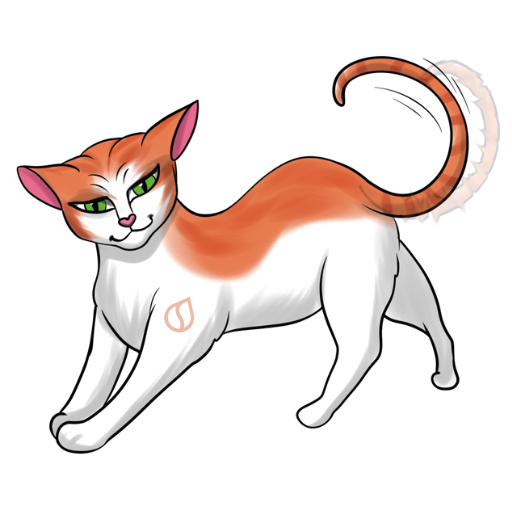
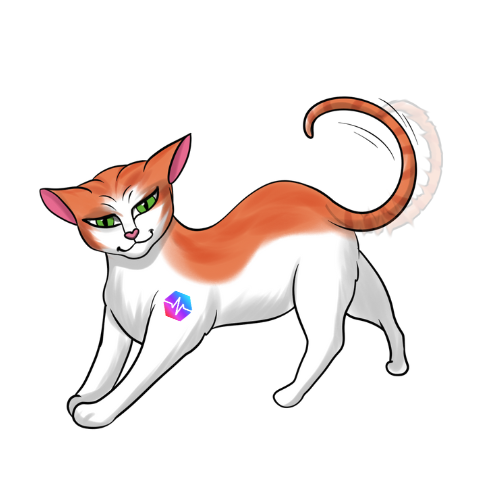
fix

diff --git a/index.html b/index.html
@@ -2,7 +2,7 @@
 <html lang="en">
 
 <head>
-	<title>$LOLA ON SUI </title>
+	<title>$LOLA ON PULSE </title>
 	<meta charset="UTF-8">
 	<meta name="format-detection" content="telephone=no">
 	<link rel="stylesheet" href="css/style.min.css">
@@ -24,17 +24,17 @@
 				<div class="home__vec _scr-item"><img src="images/vec.png" alt> <img src="images/vvv.png" alt></div>
 				<div class="home__top">
 					<div class="home__buy"><a
-							href="https://movepump.com/token/0x66883d31e13c2f348391d7b25531f87c70fbf3331e3a94c1ce6659f6c23861b0::lola::LOLA"
+							href="https://pump.tires//TBA"
 							target="_blank">BUY</a></div>
 					<div class="home__socal home__socal_1">
-						<a href="https://t.me/Lola_Sui" target="_blank"><img src="images/tg.png" alt></a>
-						<a href="https://x.com/lola_sui" target="_blank"><img src="images/x.png" alt></a>
+						<a href="https://t.me/LulaCatPulse_Portal" target="_blank"><img src="images/tg.png" alt></a>
+						<a href="https://x.com/Lola_Pulse" target="_blank"><img src="images/x.png" alt></a>
 					</div>
 
 				</div>
 				<div class="home__name">$LOLA</div>
 				<div class="home__ca _ca">CA:
-					0x66883d31..ce6659f6c23861b0::lola::LOLA</div>
+					TBA</div>
 				<div class="home__img _scr-item"><img src="images/cat.png" alt></div>
 				<div class="home__dim"><img src="images/dim.png" alt></div>
 			</div>
@@ -45,12 +45,12 @@
 				<div class="kat__st"><img src="images/st.png" alt></div>
 				<div class="kat__content _scr-item">
 					<div class="kat__title">About</div>
-					<div class="kat__text">LOLA ON SUI is a beloved cat by Matt Furie. The most impressive character of
+					<div class="kat__text">LOLA ON PULSE is a beloved cat by Matt Furie. The most impressive character of
 						his
 						comic editions! She loves to purr and sharpen her claws on jeets!</div>
 					<div class="kat__ca _ca" data-da=".kat,998, last">0x66883d31..ce6659f6c23861b0::lola::LOLA</div>
 					<div class="kat__btn" data-da=".kat,998, last">
-						<a href="https://movepump.com/token/0x66883d31e13c2f348391d7b25531f87c70fbf3331e3a94c1ce6659f6c23861b0::lola::LOLA"
+						<a href="https://pump.tires//TBA"
 							target="_blank">BUY</a>
 					</div>
 				</div>
